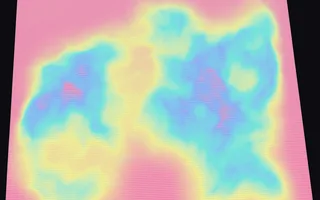
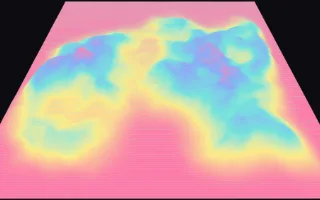
chore(presets): tune Green Screen and give every preset the default camera (v1.63.1)

diff --git a/CHANGELOG.md b/CHANGELOG.md
@@ -5,6 +5,18 @@ All notable changes to this project will be documented in this file.
 The format is based on [Keep a Changelog](https://keepachangelog.com/en/1.1.0/),
 and this project adheres to [Semantic Versioning](https://semver.org/spec/v2.0.0.html).
 
+## [1.63.1] — 2026-11-03
+
+### Changed
+
+- **Green Screen preset.** The Printer screen now has a halo of 1 and equal
+  bands in place of quantile classes. The Ground occluder has a bias of 200
+  and no stroke depth bias.
+- **One camera for every preset.** Lava Field, Compass Rose, Pin Art and Green
+  Screen had their own tilt, rotation and zoom, so the view jumped when you
+  picked one of them. All 86 presets now open at the default camera: tilt 50,
+  rotation 0 and zoom 0.75. The four thumbnails are rendered again.
+
 ## [1.63.0] — 2026-11-02
 
 ### Added
